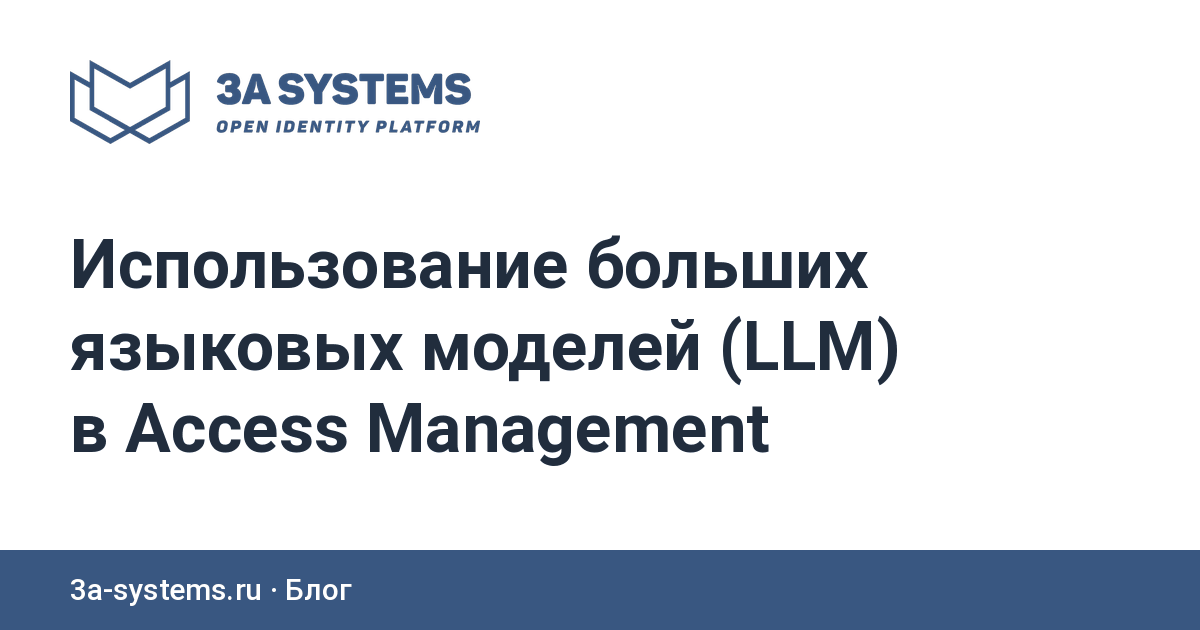
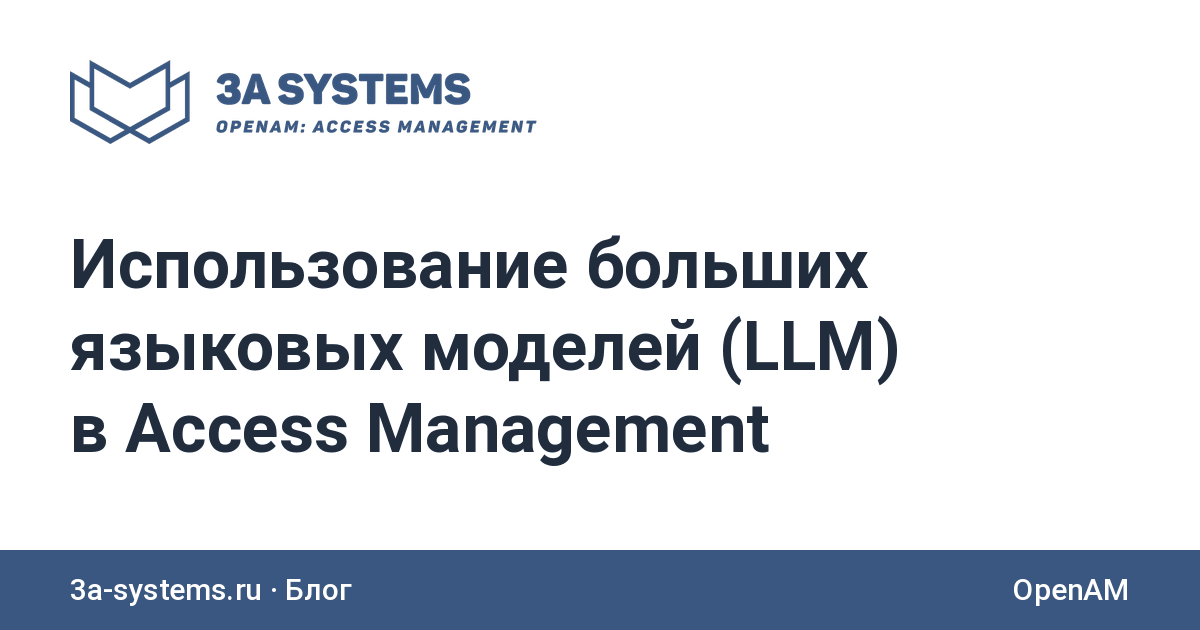
Обложки: поправки по ревью
- image: вставляется в начало front matter, если layout: не первый ключ
- tags строкой делятся по пробелам, как в Jekyll
- статьи с BOM читаются корректно (utf-8-sig)
- предупреждение, если заголовок не уместился в 4 строки или слово шире строки
- короткие слова склеиваются по последнему слову группы, двухбуквенные
  аббревиатуры не склеиваются
- пересоздана обложка статьи про LLM (тег openam из #77)

diff --git a/.github/scripts/generate-covers.py b/.github/scripts/generate-covers.py
@@ -68,10 +68,11 @@ def font(name, size):
 
 def words_of(text):
     """Слова заголовка; короткие (предлоги, союзы) склеиваются со следующим словом,
-    чтобы не оставаться в конце строки."""
+    чтобы не оставаться в конце строки. Двухбуквенные аббревиатуры (AD) не склеиваются."""
     words = []
     for word in text.split():
-        if words and len(words[-1]) <= 2 and words[-1].isalpha():
+        last = words[-1].rsplit(" ", 1)[-1] if words else ""
+        if len(last) <= 2 and last.isalpha() and not (len(last) == 2 and last.isupper()):
             words[-1] = f"{words[-1]} {word}"
         else:
             words.append(word)
@@ -93,13 +94,16 @@ def wrap(draw, text, fnt, max_width):
 
 
 def fit_title(draw, title, max_width, max_height):
-    """Подбирает наибольший размер шрифта, при котором заголовок занимает не больше 4 строк."""
+    """Подбирает наибольший размер шрифта, при котором заголовок занимает не больше 4 строк
+    и ни одна строка не шире max_width."""
     for size in range(68, 34, -2):
         fnt = font("Roboto-Bold.ttf", size)
         lines = wrap(draw, title, fnt, max_width)
         line_height = int(size * 1.22)
-        if len(lines) <= 4 and len(lines) * line_height <= max_height:
+        too_wide = any(draw.textlength(line, font=fnt) > max_width for line in lines)
+        if not too_wide and len(lines) <= 4 and len(lines) * line_height <= max_height:
             return fnt, lines, line_height
+    print(f"заголовок не уместился в обложку и обрезан: {title}", file=sys.stderr)
     return fnt, lines[:4], line_height
 
 
@@ -132,10 +136,11 @@ def render(title, tags, target):
 
 
 def add_image_to_front_matter(path, text, url):
-    """Добавляет `image:` сразу после `layout:`, не трогая остальной front matter."""
+    """Добавляет `image:` сразу после `layout:` (если `layout:` не первый ключ — в начало
+    front matter), не трогая остальной front matter."""
     updated, count = re.subn(r"\A(---\s*\nlayout:[^\n]*\n)", rf"\1image: {url}\n", text, count=1)
     if count != 1:
-        raise ValueError("front matter не начинается с layout:")
+        updated = re.sub(r"\A(---\s*\n)", rf"\1image: {url}\n", text, count=1)
     path.write_text(updated, encoding="utf-8")
 
 
@@ -147,7 +152,7 @@ def main():
     COVERS_DIR.mkdir(parents=True, exist_ok=True)
     created = updated = 0
     for path in sorted(POSTS_DIR.glob("*.md")):
-        text = path.read_text(encoding="utf-8")
+        text = path.read_text(encoding="utf-8-sig")
         match = FRONT_MATTER.match(text)
         if not match:
             print(f"пропущен {path.name}: нет front matter", file=sys.stderr)
@@ -156,9 +161,12 @@ def main():
         stem = re.sub(r"(\.md)+$", "", path.name)
         target = COVERS_DIR / f"{stem}.png"
         url = f"{COVERS_URL}/{target.name}"
+        tags = data.get("tags") or []
+        if isinstance(tags, str):
+            tags = tags.split()       # как в Jekyll: строка тегов делится по пробелам
 
         if args.force or not target.exists():
-            render(str(data.get("title", "")).strip(), [str(t) for t in data.get("tags") or []], target)
+            render(str(data.get("title", "")).strip(), [str(t) for t in tags], target)
             created += 1
         if "image" not in data:
             add_image_to_front_matter(path, text, url)
